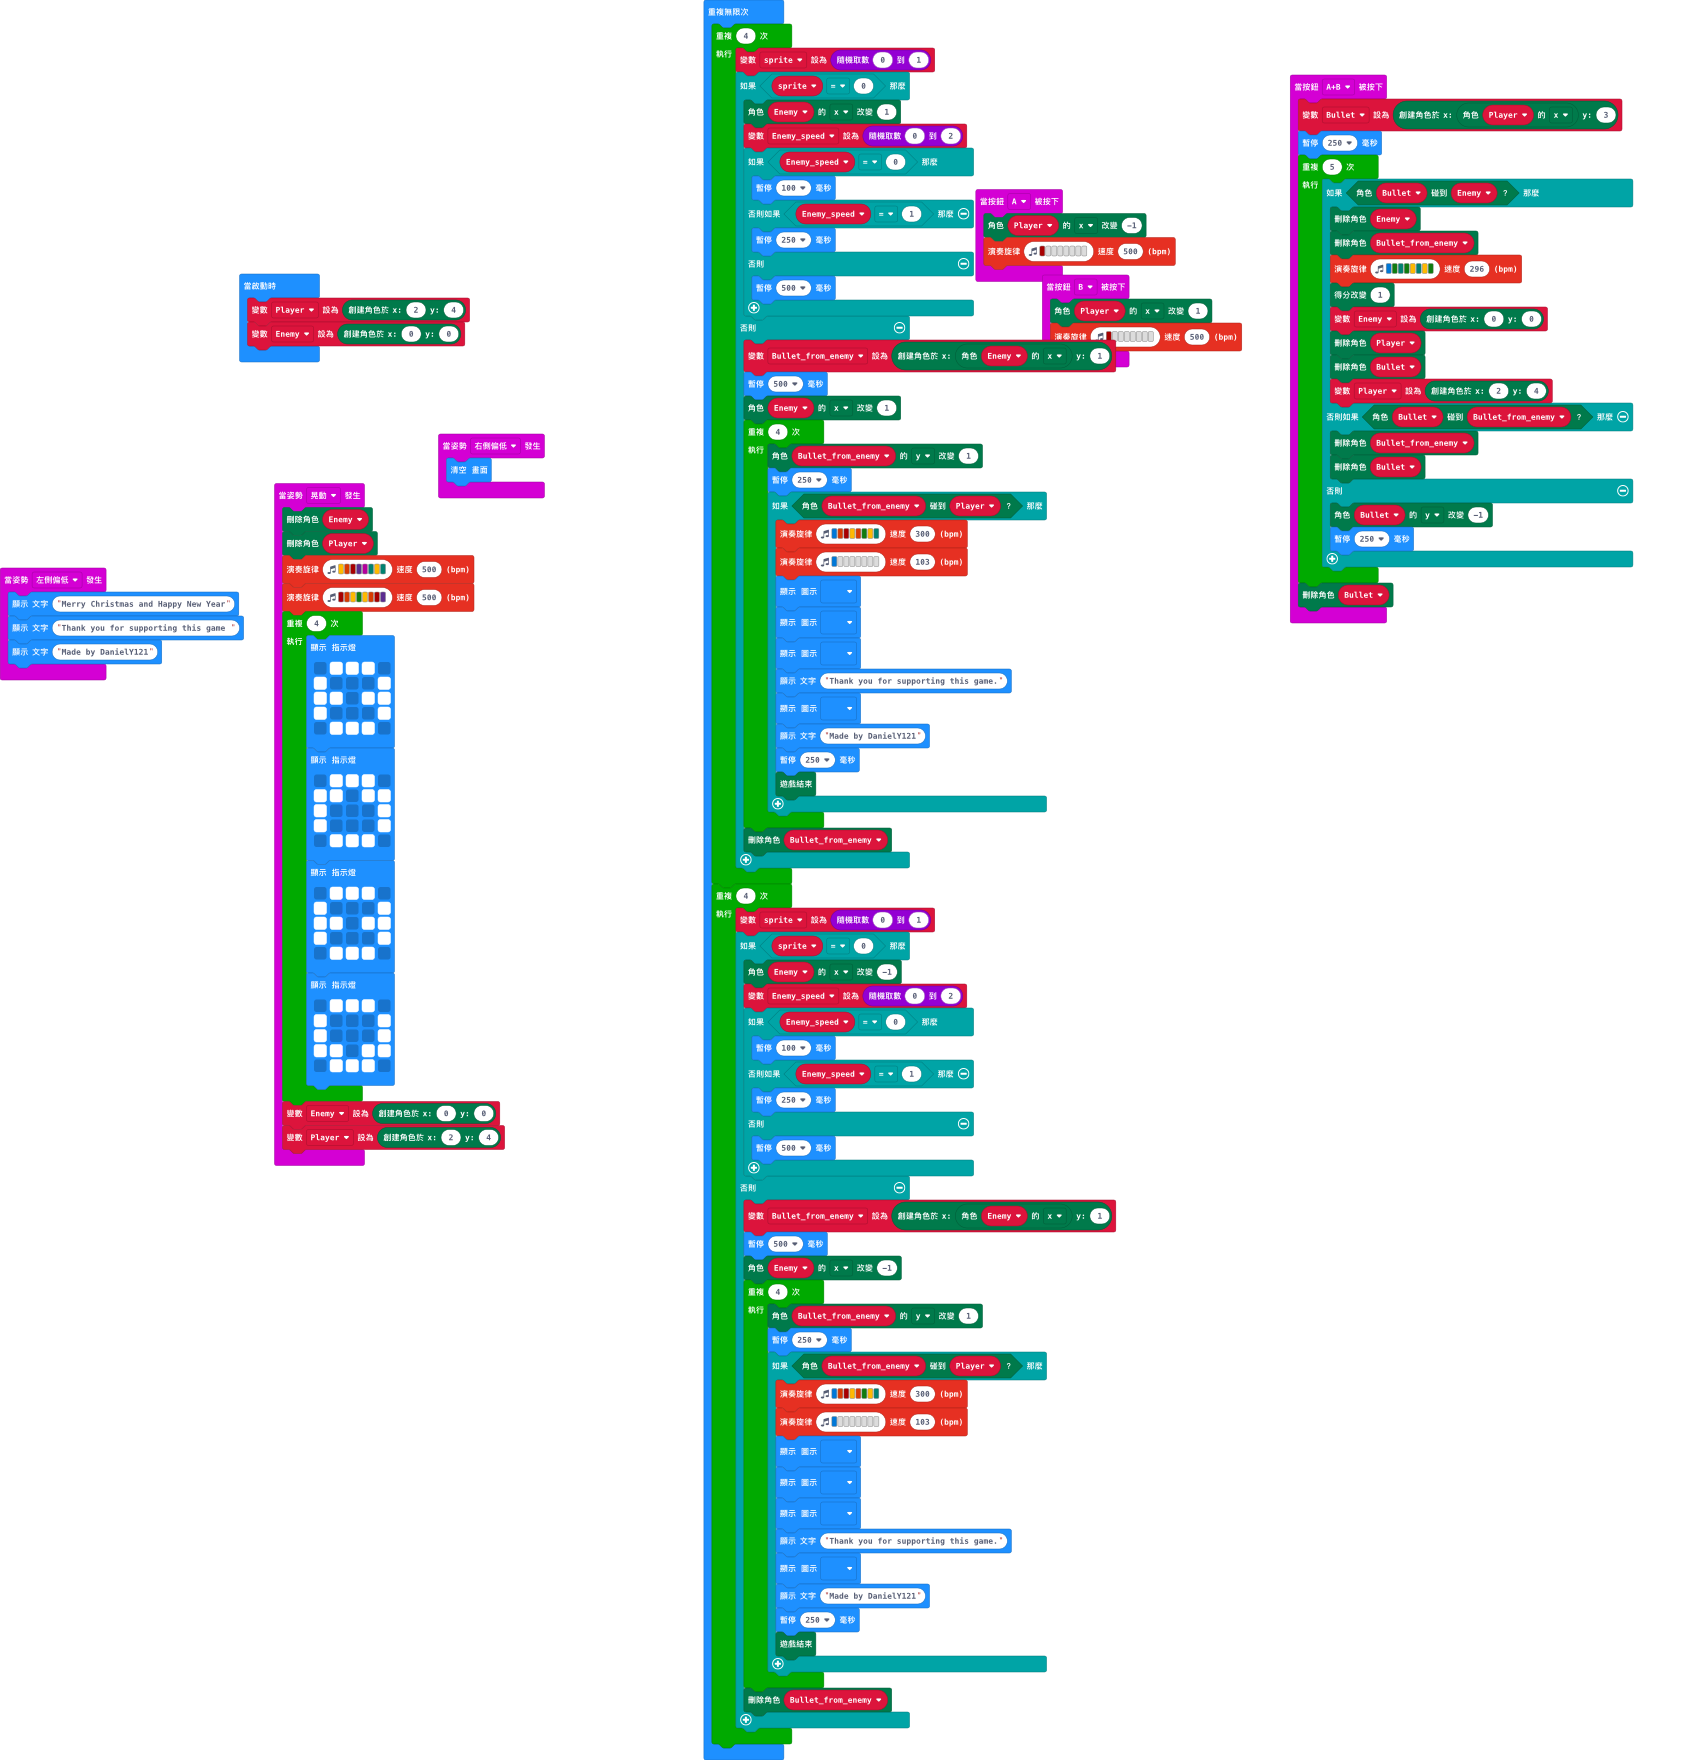
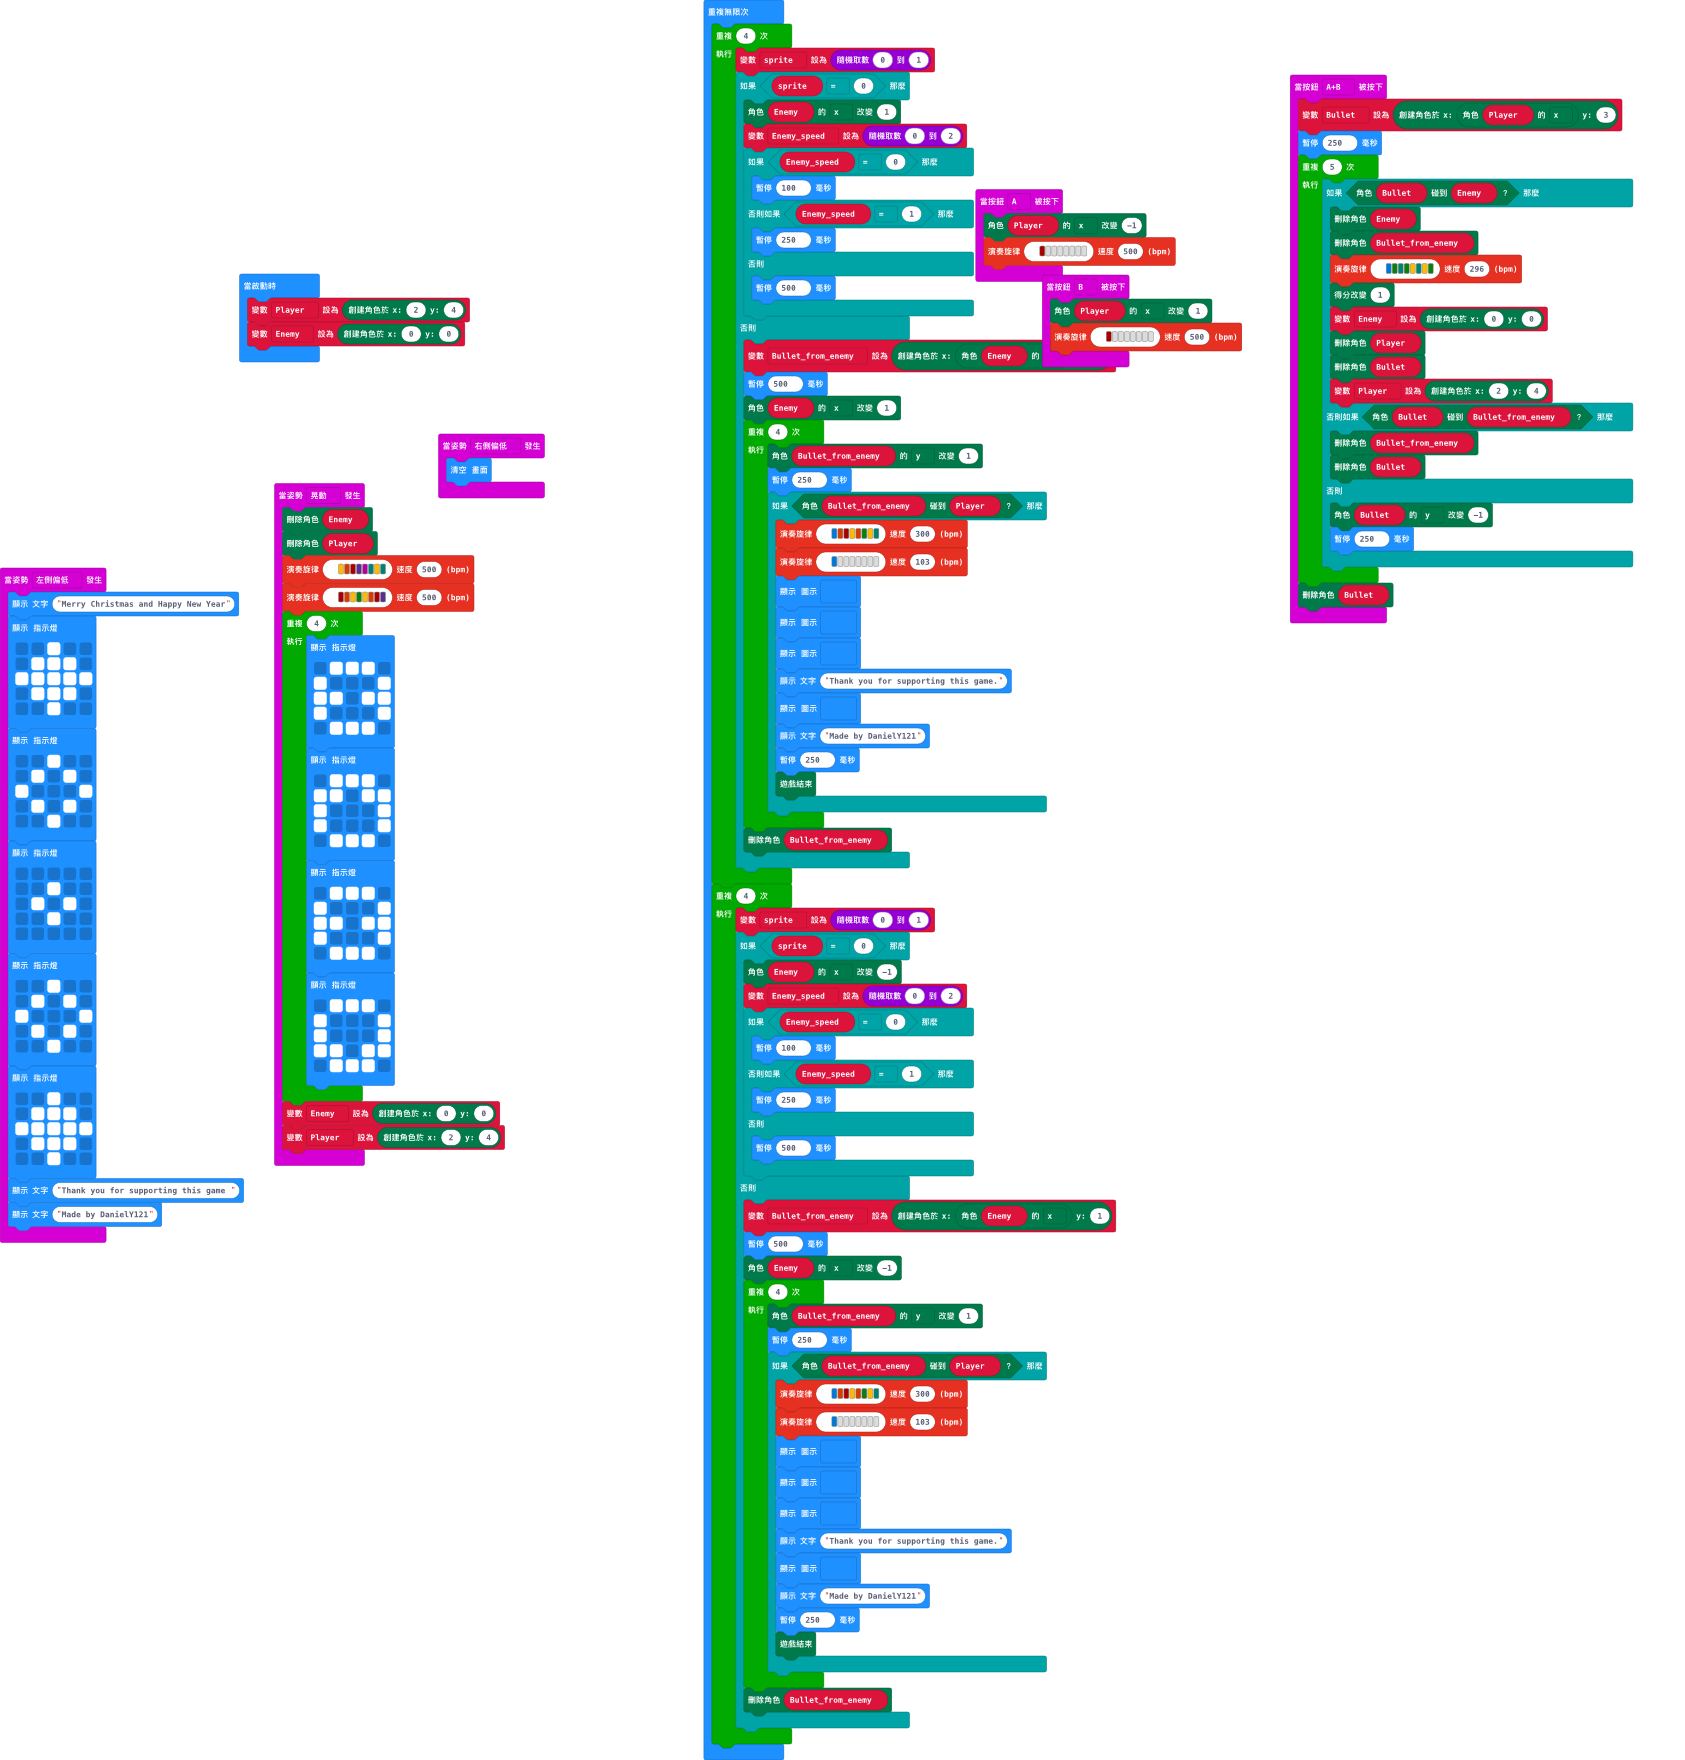
更新 main.blocks, main.ts

Changed region(s): [[0.0, 0.3438, 0.1543, 0.7188], [0.6172, 0.1875, 0.6789, 0.2188]]

diff --git a/main.ts b/main.ts
@@ -1,5 +1,40 @@
 input.onGesture(Gesture.TiltLeft, function () {
     basic.showString("Merry Christmas and Happy New Year")
+    basic.showLeds(`
+        . . # . .
+        . # # # .
+        # # # # #
+        . # # # .
+        . . # . .
+        `)
+    basic.showLeds(`
+        . . # . .
+        . # . # .
+        # . . . #
+        . # . # .
+        . . # . .
+        `)
+    basic.showLeds(`
+        . . . . .
+        . . # . .
+        . # . # .
+        . . # . .
+        . . . . .
+        `)
+    basic.showLeds(`
+        . . # . .
+        . # . # .
+        # . . . #
+        . # . # .
+        . . # . .
+        `)
+    basic.showLeds(`
+        . . # . .
+        . # # # .
+        # # # # #
+        . # # # .
+        . . # . .
+        `)
     basic.showString("Thank you for supporting this game ")
     basic.showString("Made by DanielY121")
 })
